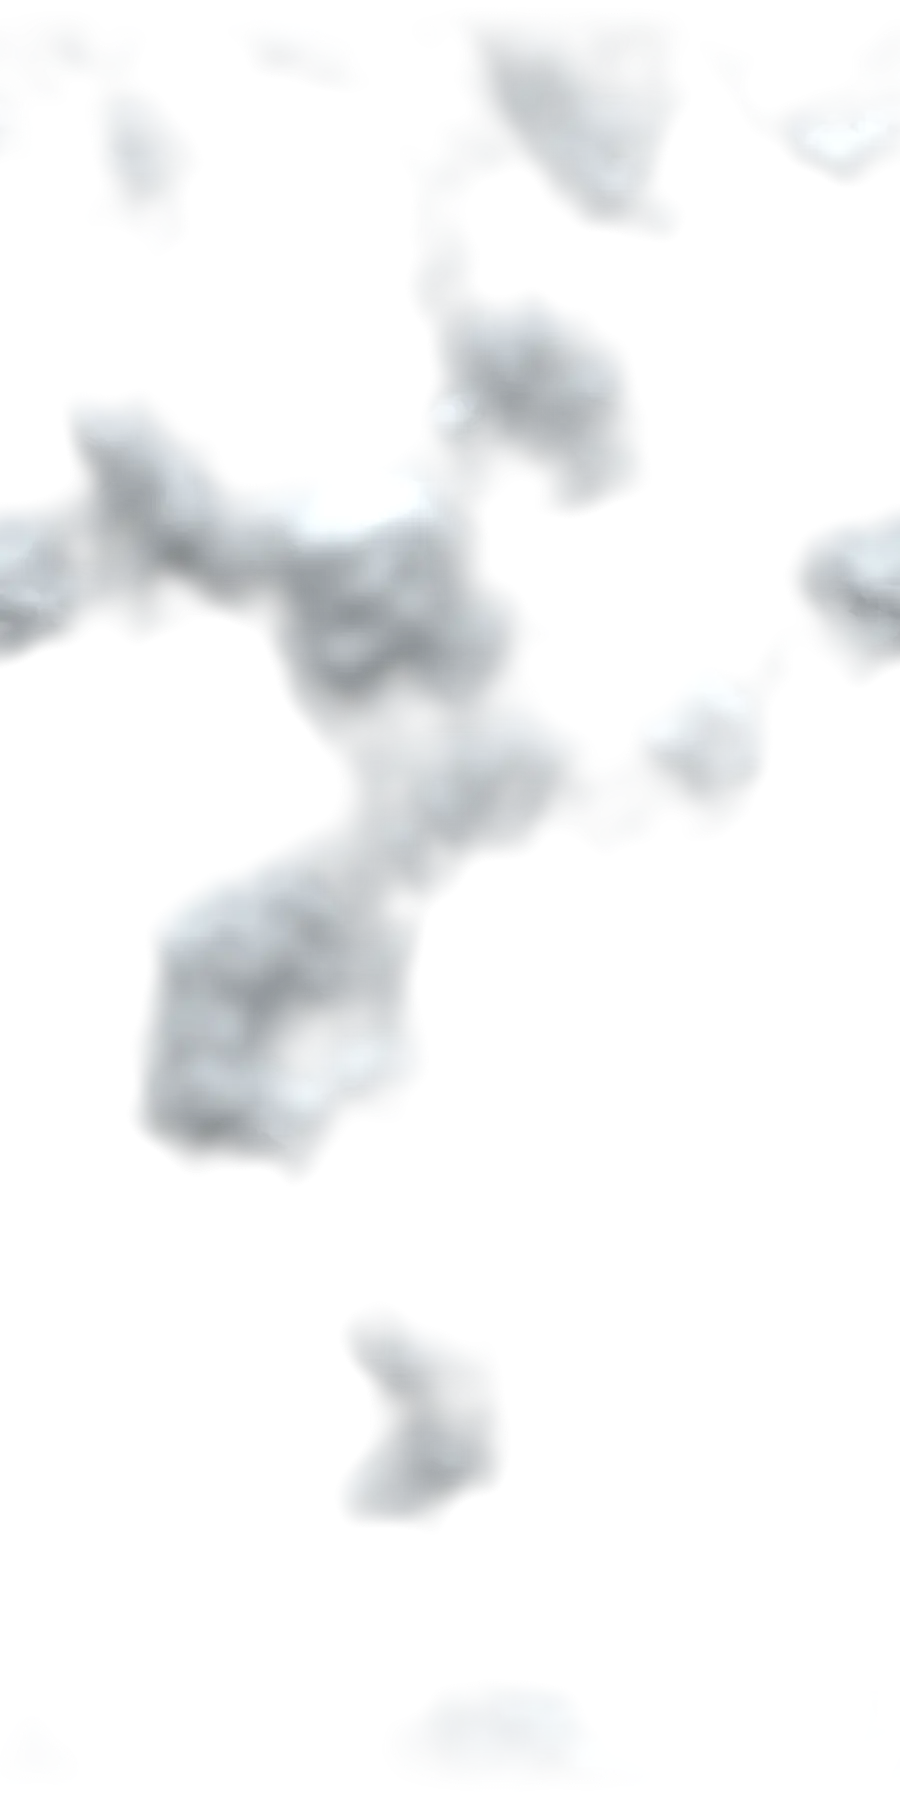
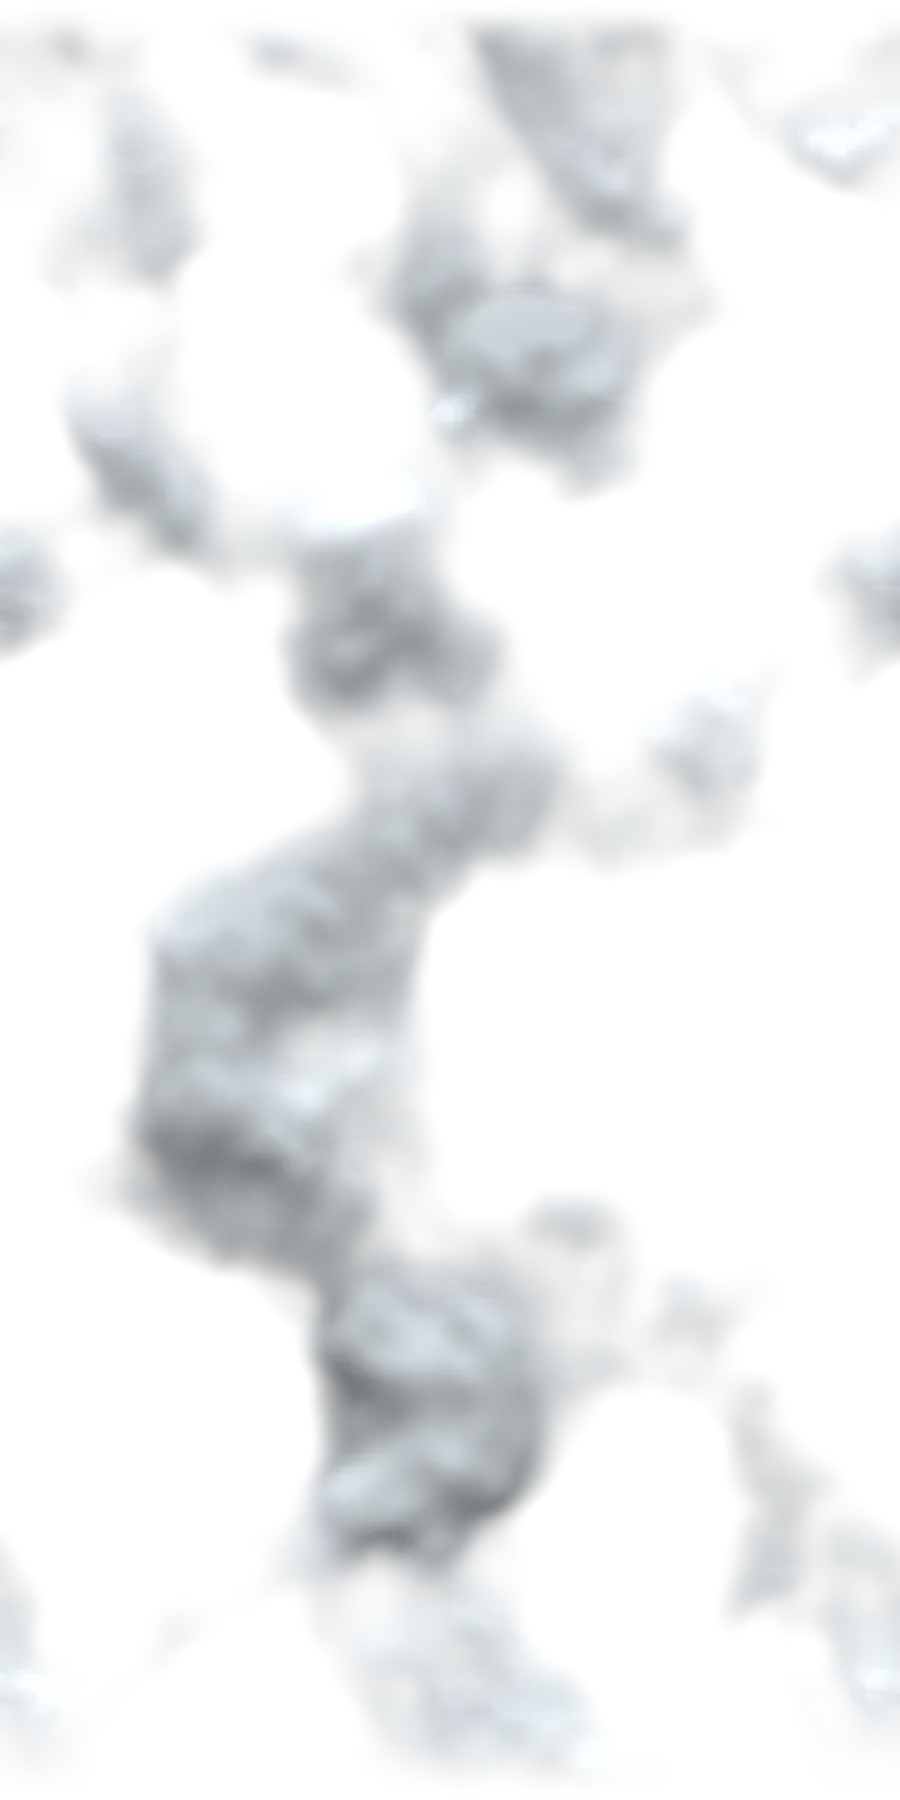
Three cloud layers all the way, front ones blurred, and the nearest at the sides
The puffs behind the texts are spread evenly all the way (the same share
of cloud in every stretch: they used to bunch up and run out). The front
wisps are well blurred and a few more again. A new layer of the nearest
clouds: occasional, very blurred, the fastest, shown only at the left and
right edges of the screen so they don't cover the logo or the texts.

diff --git a/public/main.js b/public/main.js
@@ -26,10 +26,11 @@ const cloudTile = document.querySelector(".clouds");
 // puffs behind the texts, with their top at the top of the screen when the bank's edge
 // (12% down it) reaches the middle of the screen; thin wisps in front of them, higher
 // (by this many screen heights), so they're already up in the sky over the logo when
-// the page opens and their shadows fall on it.
+// the page opens and their shadows fall on it; the nearest, at the sides, fastest.
 const cloudLayers = [
   [document.querySelector(".clouds-mid"), 1.3, 0],
-  [document.querySelector(".clouds-veil"), 1.7, -0.9]
+  [document.querySelector(".clouds-veil"), 1.7, -0.9],
+  [document.querySelector(".clouds-near"), 2.4, -0.4]
 ];
 const watch = document.querySelector(".intro-logo .watch");
 const logoShade = document.querySelector(".logo-shade img");
@@ -284,7 +285,9 @@ const mask = new Image();
 mask.src = "clouds-mask.webp";
 const shade = new Image();
 shade.src = "clouds-shade.webp";
-const images = [logo, sky, clouds, mid, veil, mask, shade];
+const near = new Image();
+near.src = "clouds-near.webp";
+const images = [logo, sky, clouds, mid, veil, mask, shade, near];
 
 function showProgress() {
   const p = 0.75 * videoShare + 0.25 * (imagesDone / images.length);

diff --git a/public/style.css b/public/style.css
@@ -222,6 +222,18 @@ html, body { background: var(--page, #939ca2); transition: background-color 0.4s
 .clouds-mid div { background-image: url(clouds-mid.webp); }
 .clouds-veil { z-index: 6; --layer-h: 760vh; --tile-w: 240vh; height: var(--layer-h); } /* one long strip, its wisps placed by tools/cloud_depth.py */
 .clouds-veil div { background-image: url(clouds-veil.webp); animation-duration: 40s; }
+/* The nearest clouds, right by the camera: occasional, very blurred, the fastest, and
+   only at the left and right edges of the screen, so they don't cover the logo and the
+   texts. */
+.clouds-near {
+  z-index: 7;
+  --layer-h: 900vh;
+  --tile-w: 240vh;
+  height: var(--layer-h);
+  -webkit-mask-image: linear-gradient(90deg, #000, #000 12%, transparent 30%, transparent 70%, #000 88%, #000);
+  mask-image: linear-gradient(90deg, #000, #000 12%, transparent 30%, transparent 70%, #000 88%, #000);
+}
+.clouds-near div { background-image: url(clouds-near.webp); animation-duration: 26s; }
 @media (prefers-reduced-motion: reduce) {
   .cloud-layer div { animation: none; }
 }

diff --git a/public/index.html b/public/index.html
@@ -112,9 +112,11 @@
     </div>
 
   <!-- Clouds at other depths, nearer than the bank: puffs behind the texts, wisps in
-       front of them (main.js moves them, faster than the bank). -->
+       front of them, and the nearest, at the sides (main.js moves them, faster than the
+       bank, the nearer the faster). -->
   <div class="cloud-layer clouds-mid" aria-hidden="true"><div></div></div>
   <div class="cloud-layer clouds-veil" aria-hidden="true"><div></div></div>
+  <div class="cloud-layer clouds-near" aria-hidden="true"><div></div></div>
 
   <script src="menu.js"></script>
   <script src="trailer.js"></script>

diff --git a/tools/cloud_depth.py b/tools/cloud_depth.py
@@ -4,6 +4,7 @@
     cwebp -q 70 -alpha_q 80 -resize 900 0 <out dir>/clouds-mid.png -o public/clouds-mid.webp
     cwebp -q 70 -alpha_q 80 <out dir>/clouds-veil.png -o public/clouds-veil.webp
     cwebp -q 70 -alpha_q 70 <out dir>/clouds-shade.png -o public/clouds-shade.webp
+    cwebp -q 60 -alpha_q 60 <out dir>/clouds-near.png -o public/clouds-near.webp
     cwebp -lossless <out dir>/clouds-mask.png -o public/clouds-mask.webp
     cwebp -lossless <out dir>/clouds-below-mask.png -o public/clouds-below-mask.webp
 
@@ -11,6 +12,8 @@
   darker undersides), scattered down a tall strip; behind the texts, in front of the bank
 - clouds-veil: large see-through wisps, lit from above; in front of the texts
 - clouds-shade: the wisps' shapes, dark: their shadows on the logo and the texts
+- clouds-near: the nearest clouds, occasional and very blurred, shown only at the
+  sides of the screen
 - clouds-mask: where the bank (clouds.webp) has any cloud, even thin haze, this is
   transparent; the logo is masked with it, so it goes behind the clouds instead of
   showing through them
@@ -59,9 +62,11 @@ def texture(h, w):
 h, w = 2400, 1200
 y = np.linspace(0, 1, h)[:, None]
 n = noise(h, w, [(300, 0.7), (115, 0.24), (40, 0.06)])
-cover = noise(h, 1, [(300, 1.0)])
-thr = 1 - (0.18 + 0.3 * cover)
-a = smooth(thr - 0.07, thr + 0.12, n) * smooth(0.0, 0.06, y) * (1 - smooth(0.92, 1.0, y))
+# the same share of cloud in every stretch (each row's own 70th percentile), so this
+# layer never thins out or runs out
+thr = np.quantile(n, 0.7, axis=1, keepdims=True)
+thr = np.convolve(np.pad(thr[:, 0], 60, mode="edge"), np.ones(121) / 121, mode="valid")[:, None]
+a = smooth(thr - 0.07, thr + 0.12, n) * smooth(0.0, 0.03, y) * (1 - smooth(0.95, 1.0, y))
 lit = np.clip(0.5 + 4.5 * (n - np.roll(n, 40, axis=0)) + 0.8 * (n - thr), 0, 1)[..., None]
 rgb = texture(h, w) * (0.6 + 0.8 * lit) * np.array([0.95, 0.99, 1.02])
 Image.fromarray(np.dstack([rgb, a[..., None] * 225]).clip(0, 255).astype(np.uint8)).save(f"{out}/clouds-mid.png")
@@ -83,17 +88,31 @@ clear = 1 - smooth(1.45, 1.55, at)
 lift = 0.3 * clear - 0.05 * dense  # higher threshold: fewer wisps; lower: more
 # Some wisps soft, almost a gradient, others with a crisper edge.
 edge = 0.03 + 0.17 * noise(h, w, [(220, 1.0)])
-a = smooth(0.74 + lift - edge, 0.74 + lift + edge, n) * smooth(0.0, 0.02, y) * (1 - smooth(0.97, 1.0, y))  # (0.74: few of them)
+a = smooth(0.71 + lift - edge, 0.71 + lift + edge, n) * smooth(0.0, 0.02, y) * (1 - smooth(0.97, 1.0, y))  # (0.71: not many)
 # softened: a little blurred (their shadows too, below, so they still match)
 a = np.asarray(Image.fromarray((a * 255).astype(np.uint8)).filter(ImageFilter.GaussianBlur(7))).astype(np.float32) / 255
 lit = np.clip(0.5 + 6.0 * (n - np.roll(n, 14, axis=0)), 0, 1)[..., None]
 rgb = np.array([178, 186, 192], np.float32) + np.array([70, 66, 60], np.float32) * lit  # whiter than the bank behind, so they show
-Image.fromarray(np.dstack([rgb, a[..., None] * 190]).clip(0, 255).astype(np.uint8)).save(f"{out}/clouds-veil.png")
+# drawn well blurred: the nearest clouds, out of focus (their shadows keep the shape above)
+seen = np.asarray(Image.fromarray((a * 255).astype(np.uint8)).filter(ImageFilter.GaussianBlur(20))).astype(np.float32) / 255
+rgb = np.asarray(Image.fromarray(rgb.clip(0, 255).astype(np.uint8)).filter(ImageFilter.GaussianBlur(14))).astype(np.float32)
+Image.fromarray(np.dstack([rgb, seen[..., None] * 200]).clip(0, 255).astype(np.uint8)).save(f"{out}/clouds-veil.png")
 # Their shadows on the letters, as from a high sun: each wisp exactly, its shape and
 # its soft or crisp edge, cast 0.2 of a screen lower, gently dark, and none where a
 # wisp is in front: a cloud, sky, then the letters darkened in its shape.
 shade = np.roll(a, int(0.2 * PER), axis=0) * (1 - smooth(0.05, 0.4, a))
 Image.fromarray(np.dstack([np.full((h, w, 3), [26, 28, 24], np.float32), shade[..., None] * 105]).astype(np.uint8)).save(f"{out}/clouds-shade.png")
+
+# The nearest clouds: occasional big soft shapes, very blurred (right by the camera);
+# the page shows them only at the left and right edges of the screen (style.css). A
+# long strip, 9 screens at 333 px a screen, stored at half size.
+h, w = 9 * PER // 2, 400
+y = np.linspace(0, 1, h)[:, None]
+n = noise(h, w, [(70, 0.8), (22, 0.2)])
+a = smooth(0.62, 0.78, n) * smooth(0.0, 0.03, y) * (1 - smooth(0.96, 1.0, y))
+a = np.asarray(Image.fromarray((a * 255).astype(np.uint8)).filter(ImageFilter.GaussianBlur(22))).astype(np.float32) / 255
+rgb = np.full((h, w, 3), [214, 219, 222], np.float32)
+Image.fromarray(np.dstack([rgb, a[..., None] * 230]).astype(np.uint8)).save(f"{out}/clouds-near.png")
 
 # The logo's mask: opaque where the bank is clear sky, transparent where it has cloud.
 # Not from the bank's see-through-ness alone: at its top that thickens evenly downward,

diff --git a/README.md b/README.md
@@ -4,7 +4,7 @@ Static website, served by Render from `public/` (no build step).
 
 - `public/favicon.png`, `apple-touch-icon.png` — the icon: mountain ridges in the evening haze
 - `public/laurels.webp` — festival laurels at the top of the homepage, nine in one strip, each sized to the same visual weight, built from the trimmed originals in `tools/laurels/` (one row beside the menu button; on phones the same strip in one row above the logo, drifting right to left for ever and draggable (main.js))
-- `public/index.html`, `style.css`, `main.js` — homepage: logo over the sky photo (`sky.webp`), the storm clouds (`clouds.webp`, a seamless sideways tile drifting steadily with the wind; the sky photo behind the logo moves up at a third of the scrolling; the logo and its button are masked with `clouds-mask.webp` so they go behind the bank (hidden even where it is only haze) instead of showing through; nearer layers move and drift faster the closer they are: puffs between the bank and the texts (`clouds-mid.webp`) and see-through wisps in front of them (`clouds-veil.webp`), all made by `tools/cloud_depth.py`; the wisps (already up in the sky over the logo when the page opens, sparse there) cast shadows of their own shape and edge (soft or crisp) 0.2 of a screen straight below themselves, as from a high sun (none behind a wisp; baked into `clouds-shade.webp`; the wisps are one long strip, few of them, fading away as the video comes up, with clear sky around the logo as the page opens and a group above the last quote, for its shadows), on the letters of the logo, the texts and the press logos only (a darkened copy of the logo masked with `clouds-shade.webp`; the texts' colour is a background clipped to the letters with those shapes over it), following their drift; the logline and quotes ride up into the centre and stay, the last (Variety) going behind the cumulus near the bank's bottom as it rises (masked with `clouds-below-mask.webp`); arriving over the top third of the video and staying there with it, blurring with it and dissolving as the synopsis comes into focus, made from the storm photo by `tools/clouds.py`: a top edge shaped by the cloud forms, softened toward the film's overcast sky lower down, the thick middle extended, the bottom faded) scroll up over it carrying the logline and two press quotes (Screen Daily, then Variety; logos `press-*.png`), each cross-fading into the next and fade onto the film clip (`bg2-light.mp4`, 1280 wide and under 1 MB, is what the loading screen waits for; the full-quality `bg2.mp4`, 12 s, 1920×1072, H.264, no audio, then loads behind it and fades in over it, in step; `bg2-poster.webp`, its first frame, shows until it plays), which plays and loops on its own while on screen (on phones it starts 2 s in the first time, then loops whole; `bg2-poster-mobile.webp` is that frame); scrolling on blurs it (not fully; no zoom); as it blurs, the poster (`poster.webp`), the synopsis and the About the film and trailer buttons come into focus in place, over the blurred video, still playing (on phones stacked: poster full width, heading, synopsis, buttons, footer, moved up by main.js over the pinned video as you scroll, from the moment it starts to show), and the page ends there. A loading screen (the light sky colour #939ca2, a small dark blue bar and percentage) holds the page until fonts, images and the clip are loaded; then the logo comes into focus
+- `public/index.html`, `style.css`, `main.js` — homepage: logo over the sky photo (`sky.webp`), the storm clouds (`clouds.webp`, a seamless sideways tile drifting steadily with the wind; the sky photo behind the logo moves up at a third of the scrolling; the logo and its button are masked with `clouds-mask.webp` so they go behind the bank (hidden even where it is only haze) instead of showing through; nearer layers move and drift faster the closer they are: puffs between the bank and the texts (`clouds-mid.webp`) and see-through wisps in front of them (`clouds-veil.webp`, well blurred), and the nearest clouds, occasional, very blurred and fastest, only at the left and right edges of the screen (`clouds-near.webp`), all made by `tools/cloud_depth.py`; the wisps (already up in the sky over the logo when the page opens, sparse there) cast shadows of their own shape and edge (soft or crisp) 0.2 of a screen straight below themselves, as from a high sun (none behind a wisp; baked into `clouds-shade.webp`; the wisps are one long strip, few of them, fading away as the video comes up, with clear sky around the logo as the page opens and a group above the last quote, for its shadows), on the letters of the logo, the texts and the press logos only (a darkened copy of the logo masked with `clouds-shade.webp`; the texts' colour is a background clipped to the letters with those shapes over it), following their drift; the logline and quotes ride up into the centre and stay, the last (Variety) going behind the cumulus near the bank's bottom as it rises (masked with `clouds-below-mask.webp`); arriving over the top third of the video and staying there with it, blurring with it and dissolving as the synopsis comes into focus, made from the storm photo by `tools/clouds.py`: a top edge shaped by the cloud forms, softened toward the film's overcast sky lower down, the thick middle extended, the bottom faded) scroll up over it carrying the logline and two press quotes (Screen Daily, then Variety; logos `press-*.png`), each cross-fading into the next and fade onto the film clip (`bg2-light.mp4`, 1280 wide and under 1 MB, is what the loading screen waits for; the full-quality `bg2.mp4`, 12 s, 1920×1072, H.264, no audio, then loads behind it and fades in over it, in step; `bg2-poster.webp`, its first frame, shows until it plays), which plays and loops on its own while on screen (on phones it starts 2 s in the first time, then loops whole; `bg2-poster-mobile.webp` is that frame); scrolling on blurs it (not fully; no zoom); as it blurs, the poster (`poster.webp`), the synopsis and the About the film and trailer buttons come into focus in place, over the blurred video, still playing (on phones stacked: poster full width, heading, synopsis, buttons, footer, moved up by main.js over the pinned video as you scroll, from the moment it starts to show), and the page ends there. A loading screen (the light sky colour #939ca2, a small dark blue bar and percentage) holds the page until fonts, images and the clip are loaded; then the logo comes into focus
 - `public/gate.js` — password screen on every page (remembered in the browser once entered). Keeps casual visitors out only: the files themselves stay reachable. To change the password, put its hash (see `hash()` in the file) in `HASH`
 - `public/trailer.js` — "Watch the trailer" buttons (under the logo and beside About the film) open the YouTube trailer in a player over the darkened page
 - `public/site.css`, `menu.js`, `menu.html` — shared styles and the menu (Home, About the film, Trailer (opens the player), Screenings, Press, Soundscape, Contact (Community hidden for now, its page kept); a pill at the top right: three lines, then MENU; it opens the menu as a page of its own, `menu.html`, in its own darker olive, so iPhone Safari's bands match it; the X goes back to the page you came from, where you were; pages cross-fade where browsers can): listed at the top of `menu.js`, the page you came from in italics, and the footer on every page (credits, designer, Instagram, Facebook, IMDb, TMDB; on the homepage at the bottom of the synopsis screen)
